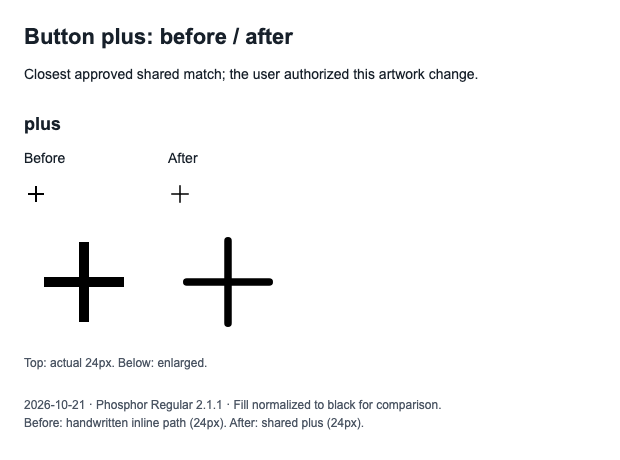
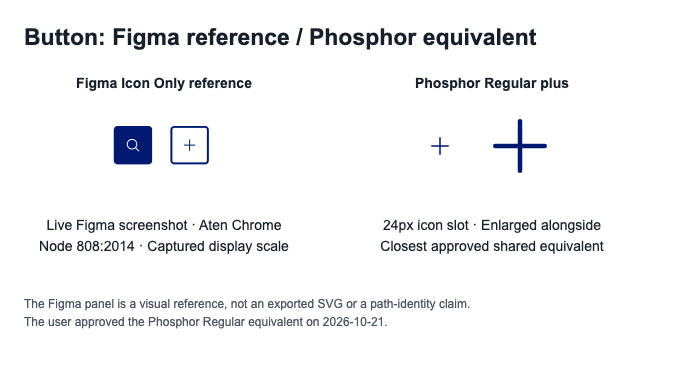
CODS-P3-003: Compare Figma references with Phosphor equivalents

diff --git a/packages/colorado-design-system/src/components/button/accessibility/button-icons.md b/packages/colorado-design-system/src/components/button/accessibility/button-icons.md
@@ -5,7 +5,7 @@ sprite. The canonical fixture references `/icons/sprite.svg#plus`; the docs and
 Storybook bind that reference to the bundled asset URL, and the static example
 binds it to its deployed `assets/icons/` directory.
 
-![Handwritten before and shared Phosphor after, at 24px and enlarged](button-icons-comparison.png)
+![Live Figma reference and closest Phosphor Regular equivalent](button-icons-comparison.png)
 
 ![Live Figma Icon Only examples, inspected in the Aten Chrome profile](button-figma-reference.png)
 
